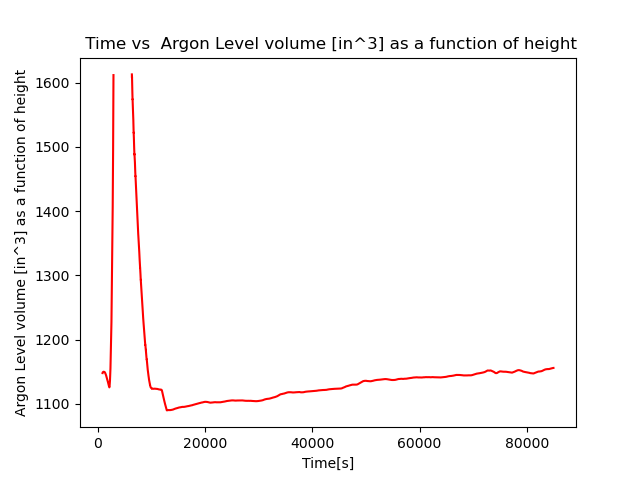
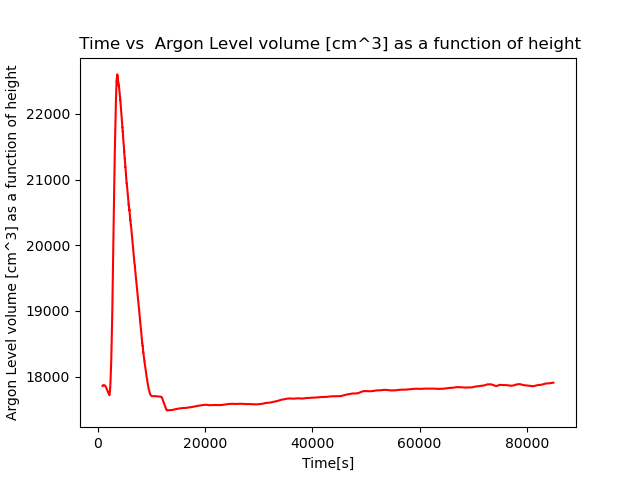
Add files via upload

diff --git a/Python_programs/argon_calculations_may_10th.py b/Python_programs/argon_calculations_may_10th.py
@@ -100,19 +100,19 @@ plt.show()
 
 #math calculation
 
-lower = .98 #inches
-upper = 4.812 #inches
+lower = 2.4892 #cm #.98 inches
+upper = 12.22248 #cm  #4.812 #inches
 h_ = upper
 R_2 = upper
 R_2_cm = 12.22248 #cm
-L=67.7 #inches ^2
-v_h_0 = 961.4 #inches ^3
-R_1 = 4 #inches
+L= 171.958 #normally this is 67.7 inches  but we convert to cm so it is 
+v_h_0 = 15754.5233 #cm^3     #961.4 inches ^3
+R_1 = 10.16#cm #normally 4 inches
 R_1_cm = 10.16 #cm
 h__lower = R_1
 #what is v_R_1
 twice_length = 2*L
-h_zero = .98 #inches
+h_zero = 2.4892#cm #.98 #inches
 
 
 
@@ -182,28 +182,28 @@ df['test'] = twice_length * all_togeterRs(N2_average)
 
 
 
-df['volume(Argon)'] =  v_h_0+(df['test']) + twice_length*full_integration #this is in inches^3
+df['volume(Argon)'] =  v_h_0+(df['test']) + twice_length*full_integration #this is in cm^3
 volume_function_as_height = df['volume(Argon)']
 
 
 
-lower_parsed_data = 7000 # this is the lower limit of where the data starts #previous value was 3000, for spline this only works for 7000 to 10000 with window size 900
-upper_parsed_data = 9500 #this is the upper limit of where the data ends
+lower_parsed_data = 6500 # this is the lower limit of where the data starts #previous value was 3000, for spline this only works for 7000 to 10000 with window size 900
+upper_parsed_data = 10000 #this is the upper limit of where the data ends
 
 
 data_we_use = volume_function_as_height.iloc[lower_parsed_data:upper_parsed_data]
 
 
-
+print("max volume",data_we_use.head())
 
 
 
 plt.figure(4)
 plt.plot(volume_function_as_height, 'r-', label='Original')
 #plt.plot(N2_average, 'g-', label='Original') 
-plt.ylabel("Argon Level volume [in^3] as a function of height")
+plt.ylabel("Argon Level volume [cm^3] as a function of height")
 plt.xlabel("Time[s]")
-plt.title(" Time vs  Argon Level volume [in^3] as a function of height")
+plt.title(" Time vs  Argon Level volume [cm^3] as a function of height")
 plt.show()
 
 
@@ -237,9 +237,9 @@ print(len(dydx_0))
 plt.figure(5)
 plt.plot(data_we_use, 'r-', label='Original')
 #plt.plot(N2_average, 'g-', label='Original') 
-plt.ylabel("volume as a function of height selected data [in^3]")
+plt.ylabel("volume as a function of height selected data [cm^3]")
 plt.xlabel("Time[s]")
-plt.title(" Selected Data Chart 6500s to 10000s vs Volume[in^3]")
+plt.title(" Selected Data Chart 6500s to 10000s vs Volume[cm^3]")
 plt.show()
 
 
@@ -319,8 +319,8 @@ plt.show()
 
 plt.figure(6)
 plt.plot(parsed_time_average,dydx, 'k-', label='Original')
-plt.ylabel("dy argon level [inches^3]")
-plt.xlabel("dx Time[s]")
+plt.ylabel("dv/dt argon level [cm^3]/[seconds]")
+plt.xlabel("dt Time[s]")
 plt.title(" boil of rate[gradient method]")
 plt.show()
 
@@ -333,11 +333,10 @@ plt.show()
 #calculate heat load 
 density_liquid_argon = 1410 #kg/m^3
 h_vap = 162.8 #kj/kg
-Inches_cube_to_meters_cubed = 1.63871*10**-5
-Q_heat = dydx * Inches_cube_to_meters_cubed * h_vap*density_liquid_argon #need to use dydx and not dydx_0 because different sizes of array.
+centimeters_cube_to_meters_cubed = 1e-6
+Q_heat = dydx * centimeters_cube_to_meters_cubed * h_vap*density_liquid_argon #need to use dydx and not dydx because different sizes of array.
 
-#print(len(Q_heat))
-#print(Q_heat)
+
 
 
 plt.figure(7)
@@ -350,8 +349,8 @@ plt.show()
 
 #mean_heat_load = Q_heat.mean() 
 mean_heat_load = np.nanmean(Q_heat)  # Use numpy's nanmean function to ignore nan values in the array
-print(mean_heat_load,"mean heat load in [kilojolues]/[second]")
-print("if we convert to [joules]/[second] we get",mean_heat_load*1000,'\n')
+#print(mean_heat_load,"mean heat load in [kilojolues]/[second]")
+#print("if we convert to [joules]/[second] we get",mean_heat_load*1000,'\n')
 #print(Q_heat)
 
 
@@ -377,7 +376,8 @@ y_data = data_we_use
 # Initial guess for parameters A, B, and C
 
 
-B = 1*10**-8
+B = 1*10**-4
+
 initial_guess = [max(y_data),B, min(y_data)]
 
 # Perform the curve fitting
@@ -395,8 +395,8 @@ annotation_text = (f'A = {A_opt:.2f}\n' f'B = {B_opt:.2e}\n'     f'C = {C_opt:.2
 plt.figure(figsize=(10, 6))
 plt.plot(x_data, y_data, 'g-',label='Data')
 plt.plot(x_data, y_fit, label='Exponential Decay Fit data', color='blue')
-plt.xlabel('X')
-plt.ylabel('Y')
+plt.xlabel('Time[Seconds]')
+plt.ylabel('Volume [cm^3]')
 #plt.plot(parsed_time_average,data_we_use, 'r-', label='Original')
 plt.title('Exponential Decay Fit')
 plt.legend()
@@ -421,7 +421,7 @@ dydx_new = y_fit/dx
 
 plt.figure(figsize=(10, 6))
 plt.plot(parsed_time_average,dydx_new, 'k-', label='Original')
-plt.ylabel("dv/dt argon level [inches^3]/[Seconds]")
+plt.ylabel("dv/dt argon level [cm^3]/[Seconds]")
 plt.xlabel("dt Time[s]")
 plt.title(" boil of rate[gradient method] with decayfit")
 plt.show()
@@ -434,8 +434,8 @@ plt.show()
 #calculate heat load 
 density_liquid_argon = 1410 #kg/m^3
 h_vap = 162.8 #kj/kg
-Inches_cube_to_meters_cubed = 1.63871*10**-5
-Q_heat = dydx_new * Inches_cube_to_meters_cubed * h_vap*density_liquid_argon #need to use dydx and not dydx_0 because different sizes of array.
+centimeters_cube_to_meters_cubed = 1e-6
+Q_heat = dydx_new * centimeters_cube_to_meters_cubed * h_vap*density_liquid_argon #need to use dydx and not dydx_0 because different sizes of array.
 
 
 print("Heat_load",Q_heat[0])

diff --git a/Python_programs/argon_calculations_may_9th.py b/Python_programs/argon_calculations_may_9th.py
@@ -63,7 +63,6 @@ plt.show()
 
 df = pd.read_csv(file_name, skiprows=9, sep=',' ) # we have to use , as delimitter and we use skiprows to ignore the first rows before the data
 
-#df_1 = pd.read_csv("log_all_chan_5_10-14_17_44.txt",header=None, sep=',')
 
 #df = df.iloc[9:] #this removes all of the stuff in the file before getting to the good data
 
@@ -100,19 +99,20 @@ plt.show()
 
 #math calculation
 
-lower = .98 #inches
-upper = 4.812 #inches
+lower = 2.4892 #cm #.98 inches
+upper = 12.22248 #cm  #4.812 #inches
 h_ = upper
 R_2 = upper
 R_2_cm = 12.22248 #cm
-L=67.7 #inches ^2
-v_h_0 = 961.4 #inches ^3
-R_1 = 4 #inches
+L= 171.958 #normally this is 67.7 inches  but we convert to cm so it is 
+v_h_0 = 15754.5233 #cm^3     #961.4 inches ^3
+R_1 = 10.16#cm #normally 4 inches
 R_1_cm = 10.16 #cm
 h__lower = R_1
 #what is v_R_1
 twice_length = 2*L
-h_zero = .98 #inches
+h_zero = 2.4892#cm #.98 #inches
+
 
 
 
@@ -158,8 +158,6 @@ Part_2_volume = 2*L *part_integration_2
 
 #we need to create functions that do the integral with different h values , because right now the h is static.
 #h will be whatever we call our argon array 
-
-
 # link to integral
 #https://en.wikipedia.org/wiki/List_of_integrals_of_irrational_functions
 
@@ -177,9 +175,7 @@ def all_togeterRs(h_n2):
 
 
 df['test'] = twice_length * all_togeterRs(N2_average)
-
 #print("hi",new_way.head(50))
-
 
 
 df['volume(Argon)'] =  v_h_0+(df['test']) + twice_length*full_integration #this is in inches^3
@@ -187,7 +183,7 @@ volume_function_as_height = df['volume(Argon)']
 
 
 
-lower_parsed_data = 7000 # this is the lower limit of where the data starts #previous value was 3000, for spline this only works for 7000 to 10000 with window size 900
+lower_parsed_data = 6500 # this is the lower limit of where the data starts #previous value was 3000, for spline this only works for 7000 to 10000 with window size 900
 upper_parsed_data = 9500 #this is the upper limit of where the data ends
 
 
@@ -195,6 +191,7 @@ data_we_use = volume_function_as_height.iloc[lower_parsed_data:upper_parsed_data
 
 
 
+print("max volume",data_we_use.head())
 
 
 
@@ -333,8 +330,8 @@ plt.show()
 #calculate heat load 
 density_liquid_argon = 1410 #kg/m^3
 h_vap = 162.8 #kj/kg
-Inches_cube_to_meters_cubed = 1.63871*10**-5
-Q_heat = dydx * Inches_cube_to_meters_cubed * h_vap*density_liquid_argon #need to use dydx and not dydx_0 because different sizes of array.
+centimeters_cube_to_meters_cubed = 1e-6
+Q_heat = dydx * centimeters_cube_to_meters_cubed * h_vap*density_liquid_argon #need to use dydx and not dydx_0 because different sizes of array.
 
 #print(len(Q_heat))
 #print(Q_heat)
@@ -377,7 +374,7 @@ y_data = data_we_use
 # Initial guess for parameters A, B, and C
 
 
-B = 1*10**-8
+B = 1*10**-4
 initial_guess = [max(y_data),B, min(y_data)]
 
 # Perform the curve fitting
@@ -434,8 +431,8 @@ plt.show()
 #calculate heat load 
 density_liquid_argon = 1410 #kg/m^3
 h_vap = 162.8 #kj/kg
-Inches_cube_to_meters_cubed = 1.63871*10**-5
-Q_heat = dydx_new * Inches_cube_to_meters_cubed * h_vap*density_liquid_argon #need to use dydx and not dydx_0 because different sizes of array.
+centimeters_cube_to_meters_cubed = 1e-6
+Q_heat = dydx_new * centimeters_cube_to_meters_cubed * h_vap*density_liquid_argon #need to use dydx and not dydx_0 because different sizes of array.
 
 
 print("Heat_load",Q_heat[0])
